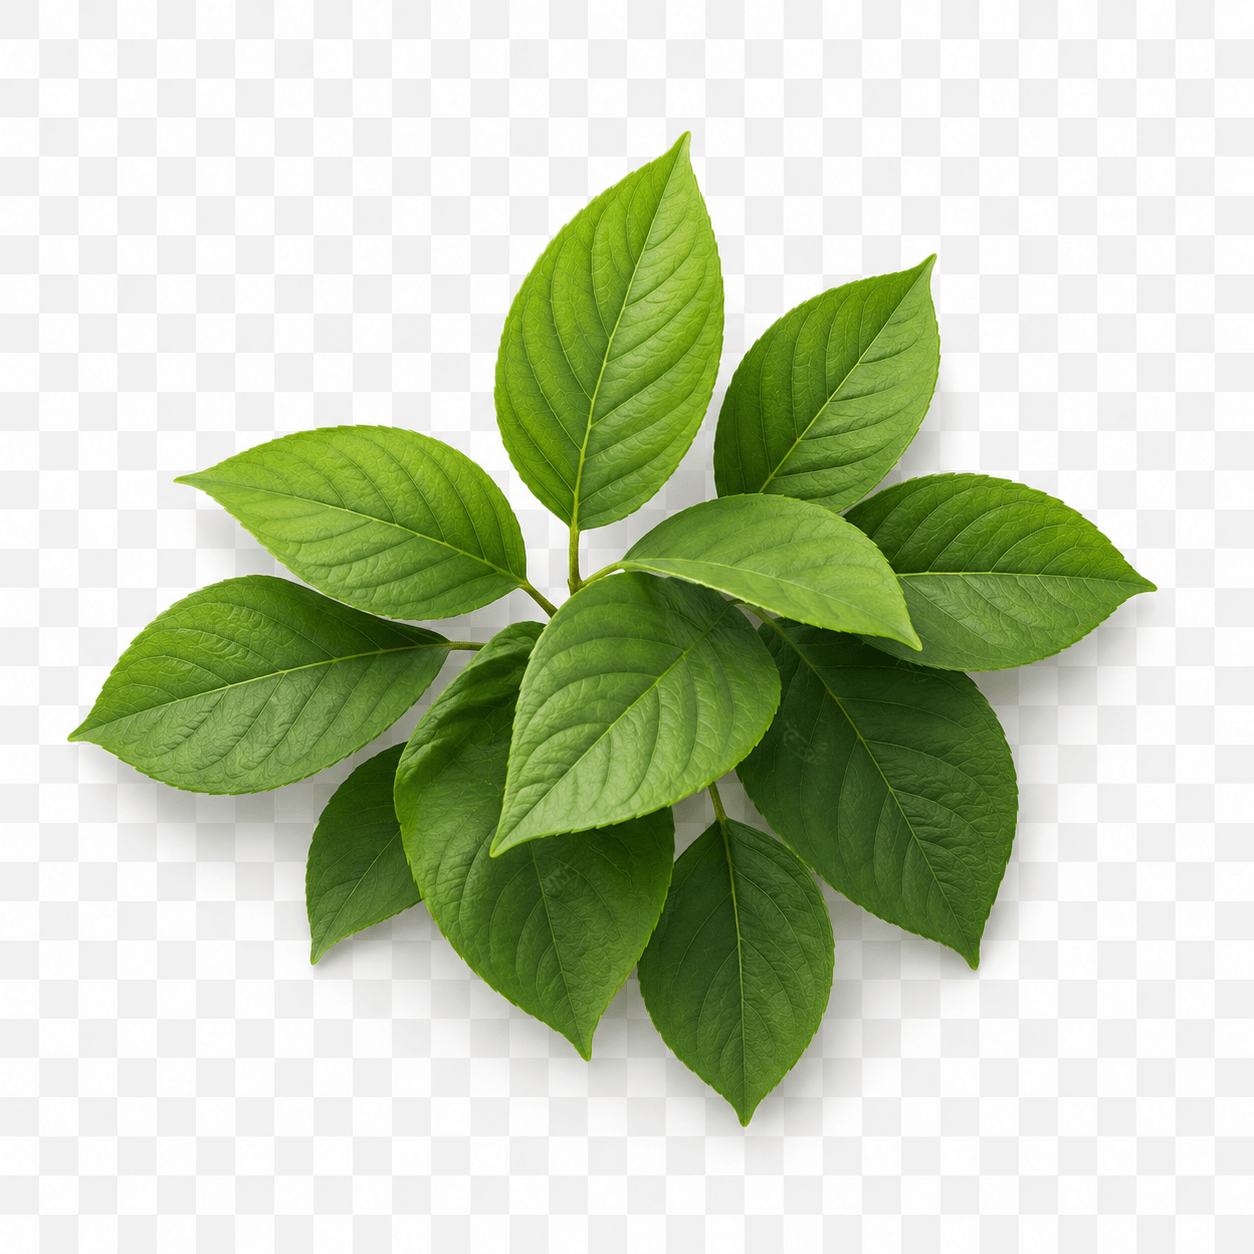
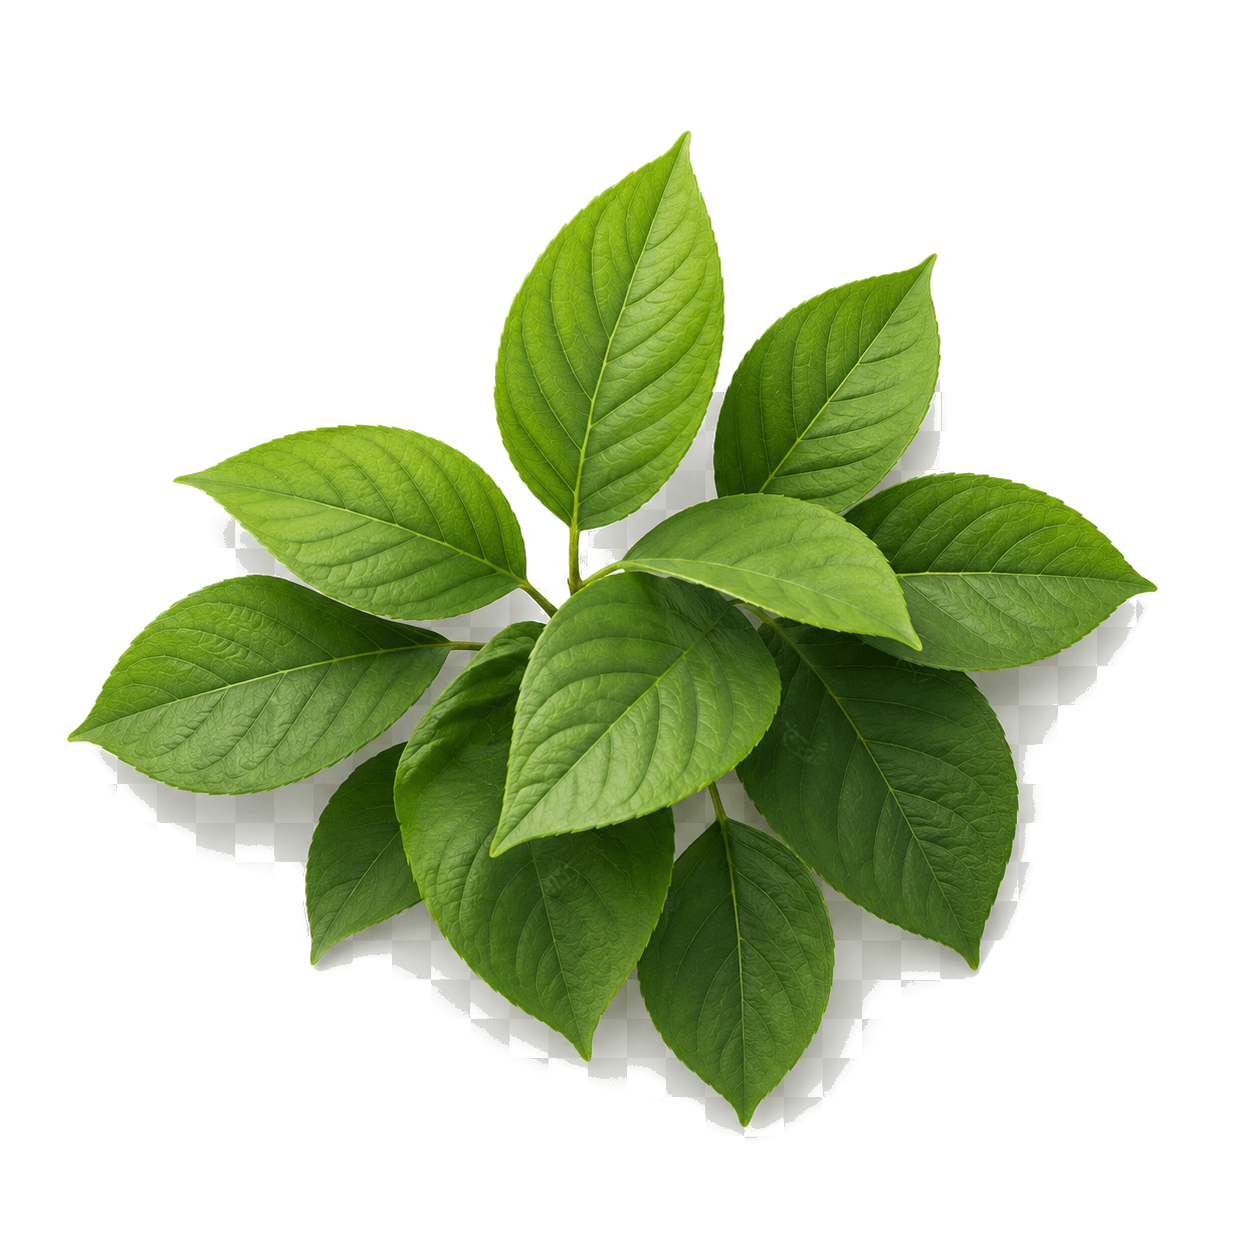
Polish delivery decor and copy

diff --git a/components/site/footer.tsx b/components/site/footer.tsx
@@ -13,7 +13,7 @@ export function Footer() {
           <div>
             <Logo />
             <p className="mt-4 max-w-sm text-sm leading-6 text-[#596553]">
-              KartoFert — удобный магазин удобрений для картофеля. Каталог, расчёт количества, корзина и заявка менеджеру без лишней сложности.
+              KartoFert — удобный магазин удобрений для картофеля. Каталог, расчёт количества, корзина и оформление заказа без лишней сложности.
             </p>
             <Button asChild className="mt-5 rounded-[10px] bg-[#f5b400] text-[#1b1500] shadow-none hover:bg-[#e8a900]">
               <Link href="/products">Перейти в каталог</Link>

diff --git a/app/delivery/page.tsx b/app/delivery/page.tsx
@@ -89,7 +89,7 @@ const faqs = [
   },
   {
     question: "Можно ли уточнить статус заказа?",
-    answer: "Да, статус заказа можно уточнить у менеджера после оформления."
+    answer: "Да, статус заказа можно уточнить после оформления — мы подскажем актуальную информацию по доставке."
   }
 ];
 
